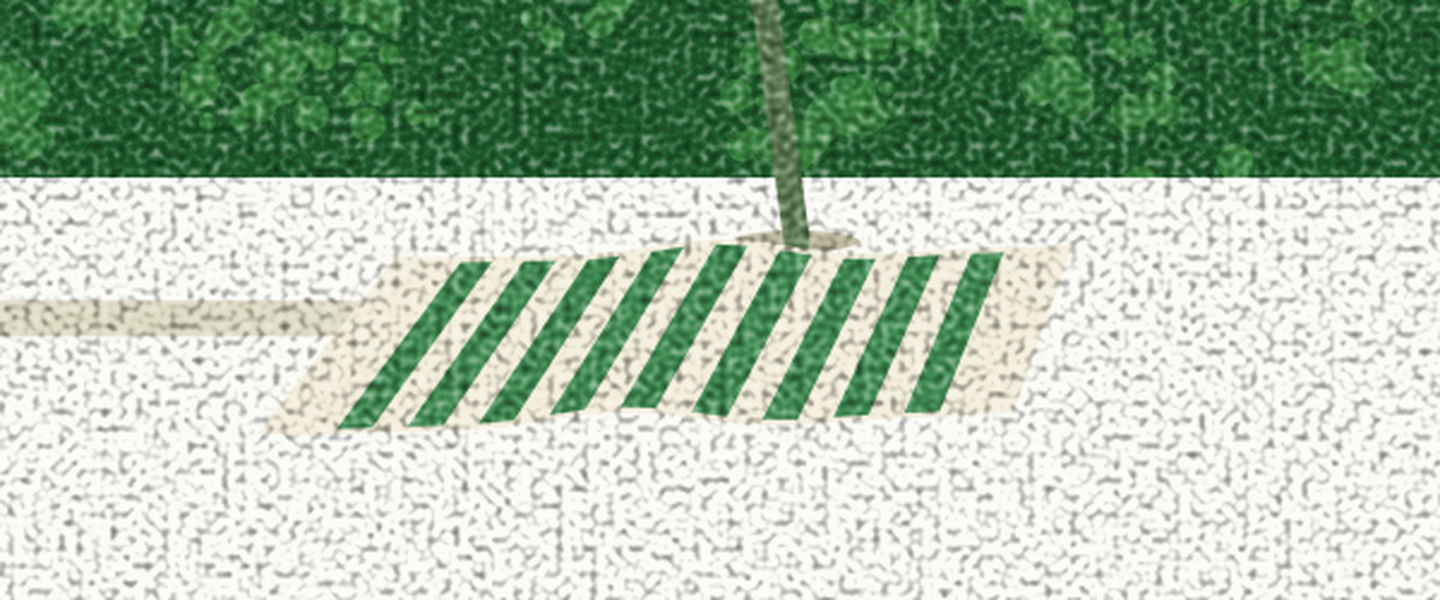
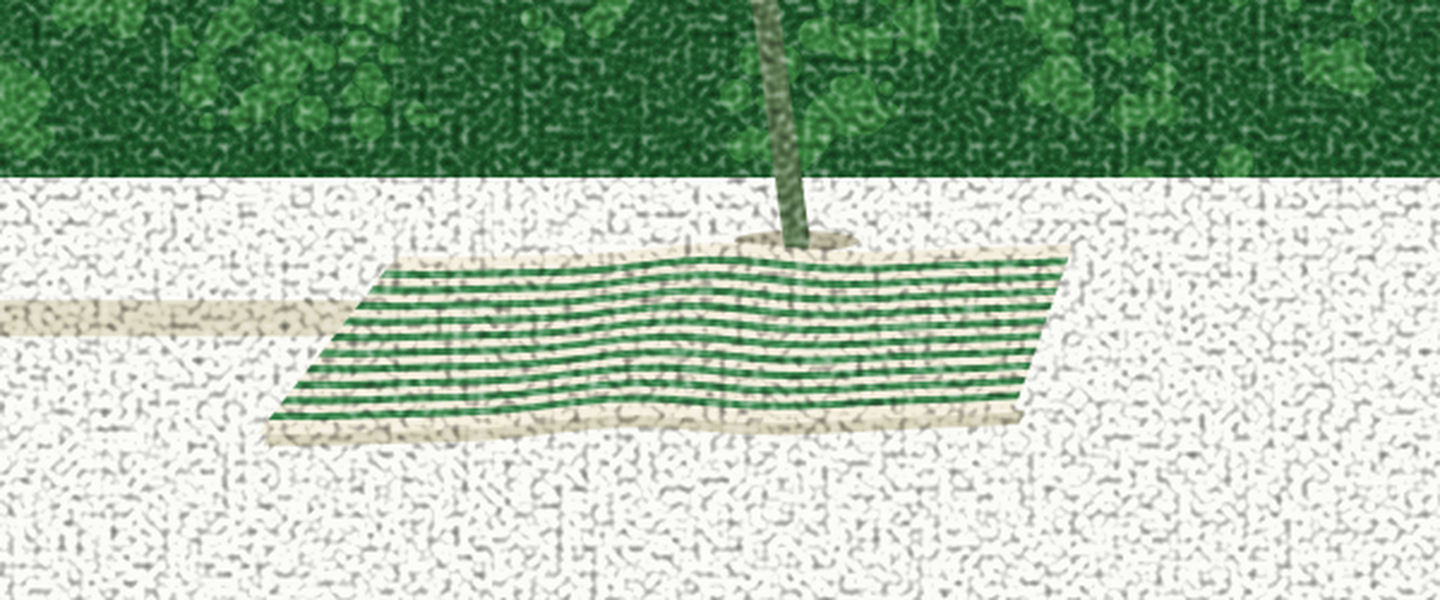
Serviette : l'analyse posée — rayures en longueur, ourlet, épaisseur
La référence, lue lentement, dit quatre choses. Les rayures suivent la
longueur du tissu, parallèles aux grands bords, fines et serrées — le
passage par des bandes transversales était une surinterprétation, annulé.
L'obliquité est portée par les extrémités coupées à trente-neuf degrés et
par le décalage du bord loin, pas par l'axe, presque horizontal : c'est ça,
le sens de pose. L'ondulation vit dans les rayures elles-mêmes, qui
serpentent avec le pli puisqu'elles le traversent — amplitude posée à 2,4,
le point entre l'invisible et le drapeau. Et la finition tient à deux
détails : des lisières unies le long des deux grands bords, l'ourlet, et
une ombre fine sous le bord près — l'épaisseur du tissu, sans laquelle la
serviette est peinte sur le sable au lieu d'être posée dessus.

Dix rayures, quadrilatère relevé inchangé, toujours au pied du mât.

Claude-Session: https://claude.ai/code/session_015un2t2xRvThoKm9jAu6CXK

Changed region(s): [[0.1875, 0.39, 0.75, 0.75]]

diff --git a/illustration/personnages.py b/illustration/personnages.py
@@ -243,13 +243,11 @@ def serviette_rayee(ox, oy, k=1.0, indent=4):
     # le pli : deux ondes lentes, en phase fixe (graine du dessin)
     def pli(u):
         att = math.sin(math.pi * u) ** 0.7      # nul aux deux bouts
-        # L'amplitude a fait l'aller-retour : 4.2 flottait comme un
-        # drapeau QUAND les rayures couraient dans la longueur - l'onde
-        # serpentait le long des lignes. 1.5 etait invisible. Avec les
-        # bandes EN TRAVERS, l'onde ne deforme plus les bandes, elle
-        # souleve leur LIGNE DE POSE : a 3.4 le tissu ondule sans voler.
-        return att * (3.4 * math.sin(2 * math.pi * 1.35 * u + 0.9)
-                      + 1.5 * math.sin(2 * math.pi * 2.85 * u + 2.3)) * k
+        # 2.4 : le point entre 1.5 (invisible) et 4.2 (drapeau). Les
+        # rayures courent dans la longueur, donc chaque ligne serpente
+        # avec le pli - c'est le mouvement du tissu de la reference.
+        return att * (2.4 * math.sin(2 * math.pi * 1.35 * u + 0.9)
+                      + 1.0 * math.sin(2 * math.pi * 2.85 * u + 2.3)) * k
 
     def point(u, v):
         gauche = (A[0] + (D[0] - A[0]) * v, A[1] + (D[1] - A[1]) * v)
@@ -257,44 +255,47 @@ def serviette_rayee(ox, oy, k=1.0, indent=4):
         return (gauche[0] + (droite[0] - gauche[0]) * u,
                 gauche[1] + (droite[1] - gauche[1]) * u + pli(u))
 
-    N = 14
+    N = 16
 
     def ligne(v):
         return [point(i / float(N), v) for i in range(N + 1)]
 
-    def contour(couleur):
-        haut = ligne(1.0)
-        bas = ligne(0.0)
+    def ruban(v0, v1, couleur):
+        haut = ligne(v1)
+        bas = ligne(v0)
         d = _catmull(haut)
         d += u" L%.1f %.1f" % bas[-1]
         d += _catmull(list(reversed(bas))).replace("M", "L", 1)
         return u'<path d="%s Z" fill="%s"/>' % (d, couleur)
 
-    # LE SENS DE POSE. Les rayures d'une serviette courent EN TRAVERS de sa
-    # largeur ; posee dans la longueur, elles deviennent des bandes
-    # TRANSVERSALES a l'image - je les avais couchees le long du tissu, a
-    # contresens. Chaque bande est un quadrilatere a u constant, du bord
-    # pres au bord loin ; elle MONTE ET DESCEND avec le pli de son endroit,
-    # puisque ses coins portent pli(u) : c'est ainsi qu'un tissu raye pose
-    # sur des bosses se comporte - les bandes restent droites, leur ligne
-    # de pose ondule.
-    def bande(u0, u1, couleur):
-        p1, p2 = point(u0, 0.03), point(u0, 0.97)
-        p3, p4 = point(u1, 0.97), point(u1, 0.03)
-        return (u'<path d="M%.1f %.1f L%.1f %.1f L%.1f %.1f L%.1f %.1f Z" '
-                u'fill="%s"/>' % (p1[0], p1[1], p2[0], p2[1],
-                                  p3[0], p3[1], p4[0], p4[1], couleur))
+    out = []
 
-    out = [contour(CREME)]
-    # LES LISIERES : une bande unie a chaque bout - l'ourlet du tissu -
-    # puis treize bandes alternees a trame egale, sept vertes.
-    u_min, u_max = 0.10, 0.90
-    n_bandes = 17
-    pas_u = (u_max - u_min) / n_bandes
-    for i in range(n_bandes):
-        if i % 2 == 0:
-            out.append(bande(u_min + i * pas_u, u_min + (i + 1) * pas_u,
-                             VERT_OBJET))
+    # L'EPAISSEUR DU TISSU : une ombre fine sous le bord pres, decalee de
+    # quelques pixels. Sans elle la serviette est PEINTE sur le sable ;
+    # avec elle, elle est POSEE dessus. C'est le detail qui fait la
+    # finition - le meme role que le trait au pied du mat.
+    bas_ombre = [(x + 2.5, y + 5.0) for (x, y) in ligne(0.0)]
+    haut_ombre = [(x + 2.5, y - 6.0) for (x, y) in bas_ombre]
+    d_ombre = _catmull(haut_ombre)
+    d_ombre += u" L%.1f %.1f" % bas_ombre[-1]
+    d_ombre += _catmull(list(reversed(bas_ombre))).replace("M", "L", 1)
+    out.append(u'<path d="%s Z" fill="%s" opacity="0.8"/>'
+               % (d_ombre, OMBRE_SOL))
+
+    out.append(ruban(0.0, 1.0, CREME))
+
+    # DIX RAYURES DANS LA LONGUEUR - ce que montre la reference : des
+    # lignes fines et serrees, paralleles aux grands bords, qui SERPENTENT
+    # avec le pli puisqu'elles le traversent. Les bandes transversales de
+    # la version precedente etaient une surinterpretation. Des lisieres
+    # unies le long des deux grands bords : l'ourlet.
+    n = 10
+    v_min, v_max = 0.10, 0.90
+    pas_v = (v_max - v_min) / (n - 1)
+    demi = pas_v * 0.24
+    for i in range(n):
+        v = v_min + i * pas_v
+        out.append(ruban(v - demi, v + demi, VERT_OBJET))
 
     return u"%s<g inkscape:label=\"Serviette rayee\">\n%s\n%s</g>" % (
         e, "\n".join(u"%s  %s" % (e, x) for x in out), e)

diff --git a/illustration/METHODE.md b/illustration/METHODE.md
@@ -201,13 +201,16 @@ bâton.
 référence fait court (≈ 0,1–0,25 de la bande) et dense (≈ 4,6 px). C'est la
 proximité des brins qui fait la matière, pas leur taille.
 
-**Le sens de pose d'une serviette : rayures en travers.** Les rayures d'une
-serviette courent en travers de sa largeur ; posée dans la longueur, elles
-deviennent des bandes **transversales** à l'image — les coucher le long du
-tissu était un contresens. Chaque bande est un quadrilatère à u constant du
-bord près au bord loin ; elle monte et descend avec le pli de son endroit —
-les bandes restent droites, leur ligne de pose ondule. Lisières unies aux
-deux bouts (l'ourlet), 17 bandes à trame égale, 9 vertes.
+**La serviette, lue lentement.** Quatre faits, dans l'ordre : les rayures
+suivent la **longueur**, parallèles aux grands bords, fines et serrées ;
+l'obliquité est portée par les **extrémités** (coupées à ~39°) et le
+décalage du bord loin, pas par l'axe, qui est presque horizontal ;
+l'ondulation vit **dans les rayures**, qui serpentent avec le pli
+puisqu'elles le traversent ; et la finition tient à deux détails — les
+**lisières** unies le long des grands bords, et une **ombre fine sous le
+bord près**, l'épaisseur du tissu, sans laquelle la serviette est peinte
+sur le sable au lieu d'être posée dessus. Le passage par des bandes
+transversales était une surinterprétation.
 
 **Un tissu, c'est du désordre cohérent.** Les rayures droites faisaient un
 carrelage ; le mouvement juste est UN SEUL champ de plis d(u), commun au
